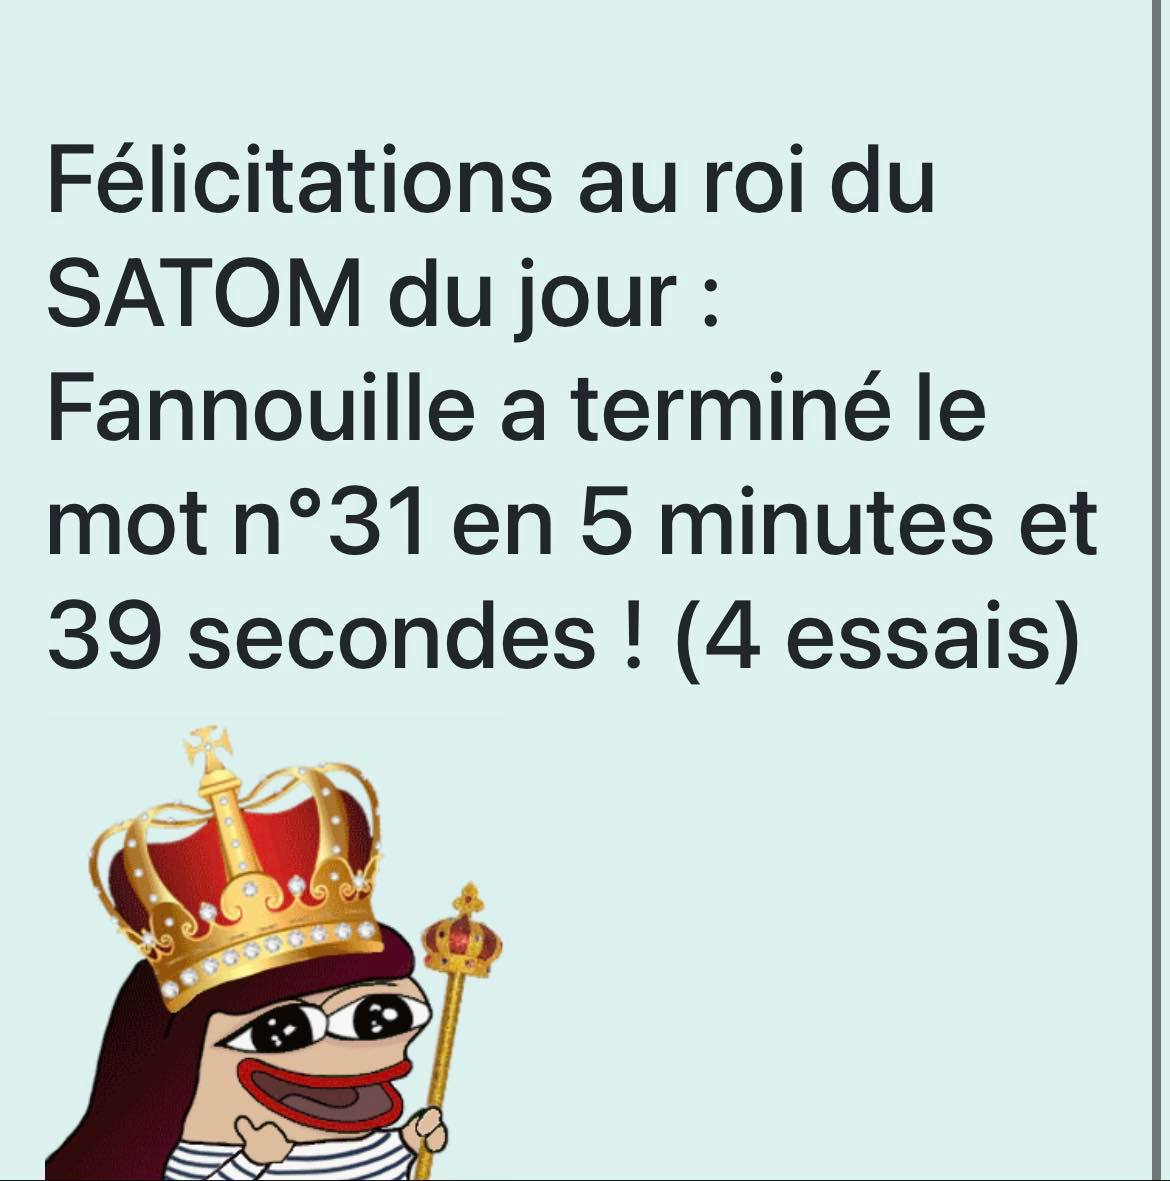
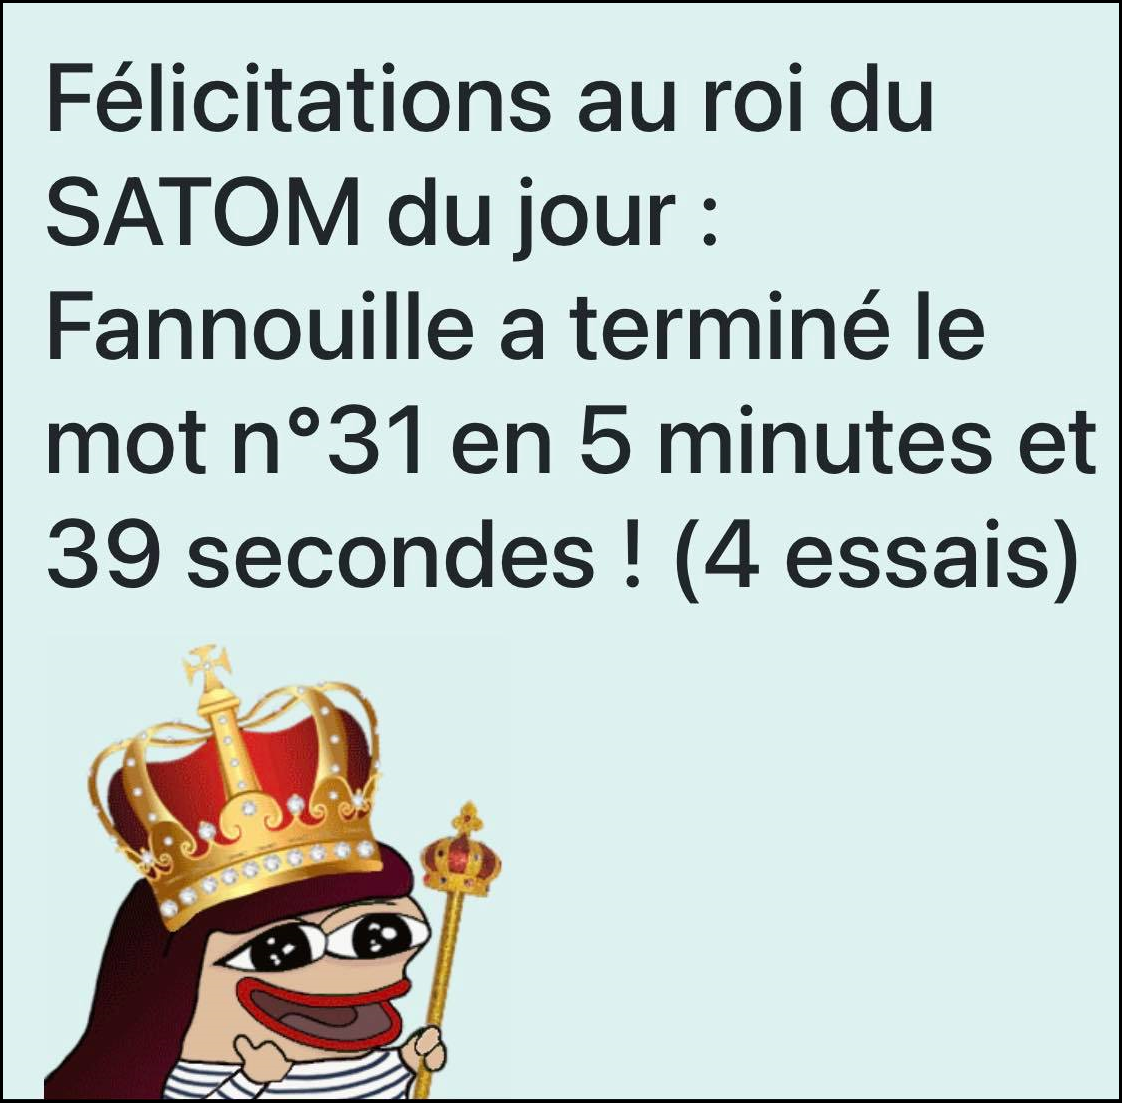
clean rules

Changed region(s): [[0.0, 0.0, 1.0, 1.0], [0.0624, 0.9248, 0.0936, 0.9556], [0.0, 0.0, 0.0312, 0.0308]]

diff --git a/hello_world/templates/rules.html b/hello_world/templates/rules.html
@@ -39,11 +39,11 @@ permettant de passer au mot suivant, partager votre score et chercher la défini
 <img src={% static "try3.png" %} alt="try3" style="width: 40vh"/>
 <br>
 <br>
-Si vous êtes performants et que vous résolvez le challenge du jour le plus rapidement parmi tous les utilisateurs, vous
+Si vous êtes performant et que vous résolvez le challenge du jour le plus rapidement parmi tous les utilisateurs, vous
 serez nommé "Roi du SATOM du jour" et figurerez sur la page d'accueil, alors à vos claviers !
 <br>
 <br>
-<img src={% static "king.png" %} alt="king" style="width: 40vh"/>
+<img src={% static "king.png" %} alt="king" style="width: 43vh"/>
 
 
 
